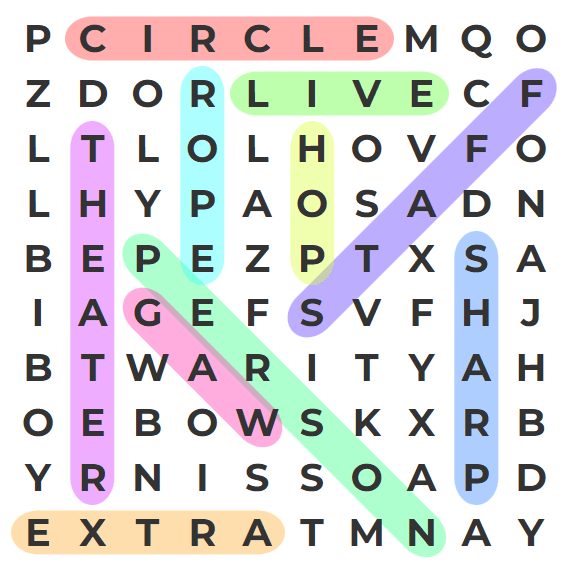
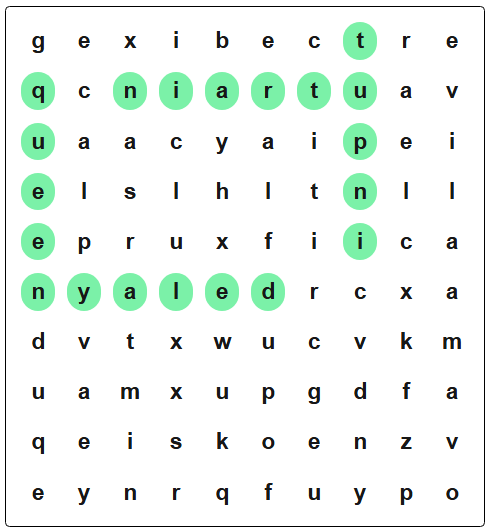
update wordsearch preview pic and rename utils into server-actions

diff --git a/src/app/page.tsx b/src/app/page.tsx
@@ -1,7 +1,7 @@
 "use client";
 
 import ImageResource from "@/components/generic/image-resource";
-import { getResources, Resource } from "@/utils/resource";
+import { getResources, Resource } from "@/server-actions/resource";
 import { useEffect, useState } from "react";
 
 export default function Home() {

diff --git a/src/app/(games)/wordsearch/page.tsx b/src/app/(games)/wordsearch/page.tsx
@@ -1,6 +1,6 @@
 "use client";
 
-import generateList from "@/utils/word-generator";
+import generateList from "@/server-actions/word-generator";
 import { memo, useCallback, useEffect, useState } from "react";
 
 export default function WordSearch() {

diff --git a/src/components/generic/image-resource.tsx b/src/components/generic/image-resource.tsx
@@ -1,6 +1,6 @@
 "use client";
 
-import { Resource } from "@/utils/resource";
+import { Resource } from "@/server-actions/resource";
 import { FileWarning } from "lucide-react";
 import Image from "next/image";
 import Link from "next/link";
